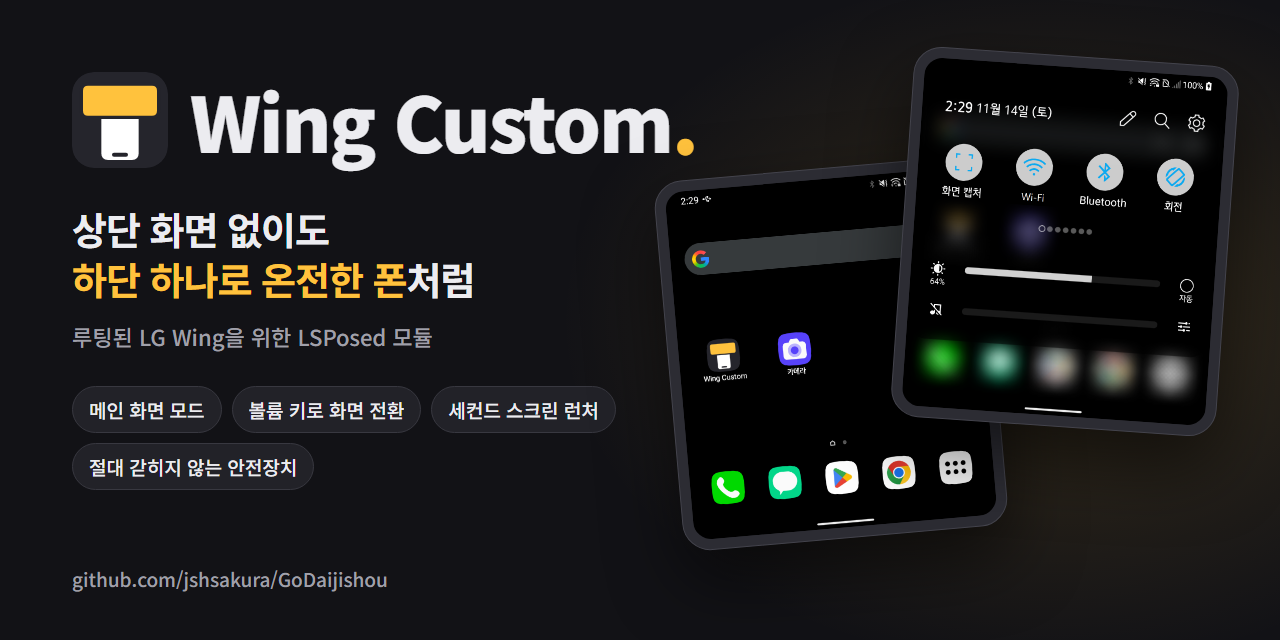
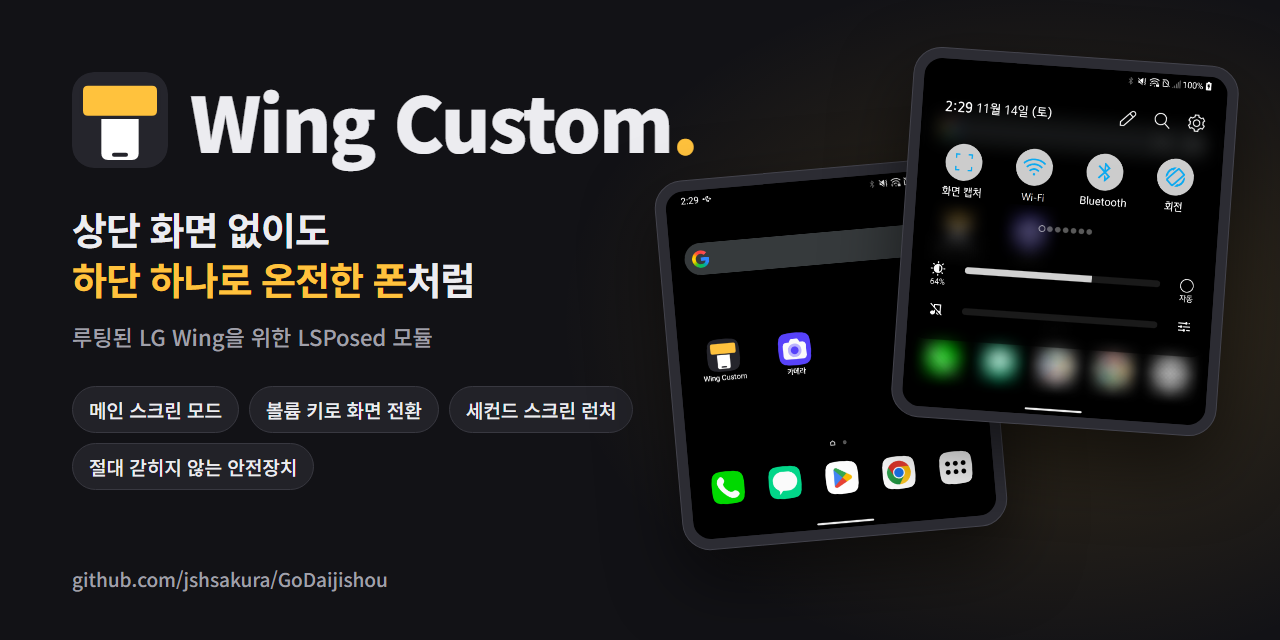
OG image: 'main screen' wording

Changed region(s): [[0.0938, 0.625, 0.5, 0.6562]]

diff --git a/docs/og/og.html b/docs/og/og.html
@@ -51,7 +51,7 @@
     <p class="tag">상단 화면 없이도<br><b>하단 하나로 온전한 폰</b>처럼</p>
     <p class="sub">루팅된 LG Wing을 위한 LSPosed 모듈</p>
     <div class="chips">
-      <span class="chip">메인 화면 모드</span>
+      <span class="chip">메인 스크린 모드</span>
       <span class="chip">볼륨 키로 화면 전환</span>
       <span class="chip">세컨드 스크린 런처</span>
       <span class="chip">절대 갇히지 않는 안전장치</span>
